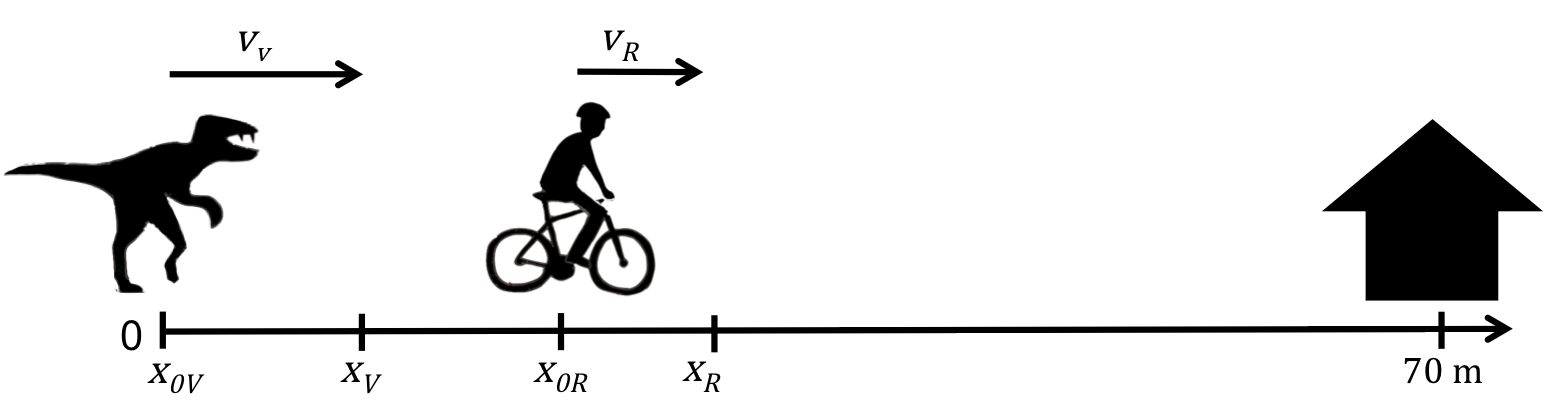
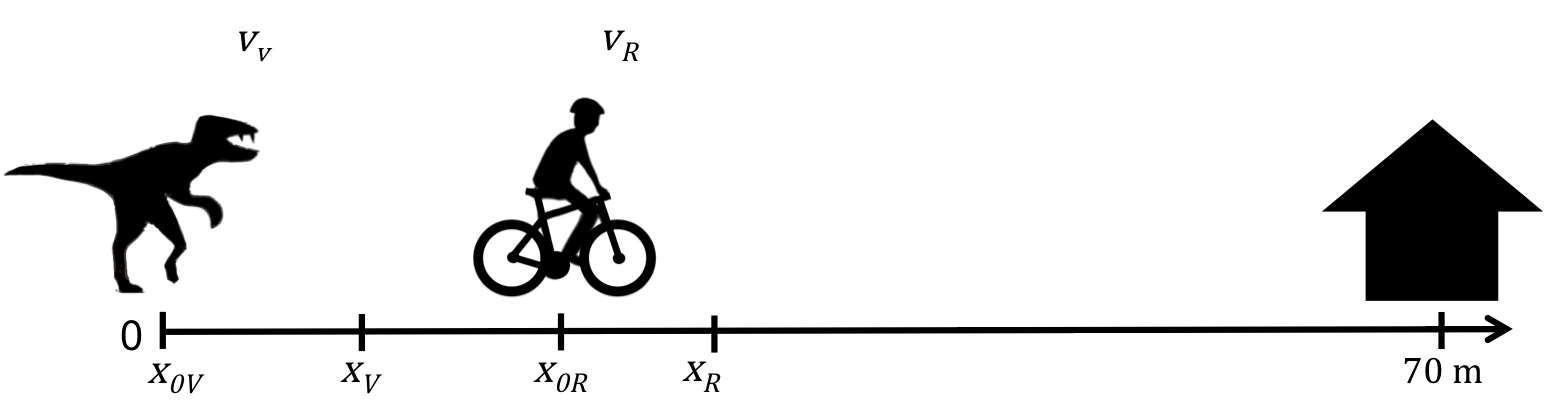
Added Solution to Motion in ND (rough draft)
Added a solution to one of the worked out problems and updated some diagrams. Still to do: update disgrams to have arrows above vectors and to make consistent with other diagrams, and add solution to other problem

diff --git a/tex/DescribingMotionInND.tex b/tex/DescribingMotionInND.tex
@@ -593,7 +593,68 @@ which is sometimes called the ``angular frequency'' instead of the angular veloc
 \item Where does he land?
 \end{problemParts}
 
-\begin{problemParts}{A cowboy swings a lasso above his head. The lasso moves in a circle in the horizontal plane and has a radius of $\SI{1.5}{m}$. A hawk flies toward the lasso at $\SI{50}{km/h}$ [N]. The bird sees the lasso moving at $\SI{60}{km/h}$ when it is directly in front of him. In the reference frame of the cowboy, what is...}
-\item The angular velocity of the lasso?
-\item The angular acceleration of the lasso? 
+\begin{problemParts}{A cowboy swings a lasso above his head. The lasso moves in a circle of radius $\SI{1.5}{m}$ in the horizontal plane. A hawk flies toward the lasso at $\SI{50}{km/h}$. The hawk sees the end of the lasso moving at $\SI{60}{km/h}$ when the lasso is directly in front of it (see Figure \ref{fig:CowboyQuestion}). In the reference frame of the cowboy ...}
+\item How long does it take for the lasso to complete one revolution?
+\item What is the centripetal acceleration of the end of the lasso? 
+\item What is the angular acceleration of the lasso?
+\capfig{0.5\textwidth}{figures/DescribingMotionInND/CowboyQuestionGiven.png}{\label{fig:CowboyQuestion} The problem as viewed from above. This diagram depicts the moment that the end of the lasso passes in front of the hawk.}
 \end{problemParts} 
+
+
+\textbf{Solution:}
+\begin{enumerate}[label=\alph*)]
+\item Our goal is the find the period of the lasso's motion. To do this, we can use the formula, 
+\begin{align*}
+T&=\frac{2\pi}{\omega}
+\end{align*}
+for which we need the angular velocity, $\omega$. We know the radius of the lasso, so if we find the linear velocity of the end point of the lasso, we can find the angular velocity by
+\begin{align*}
+\omega&=\frac{v}{R}
+\end{align*}
+We start by using what we know about relative motion to find the linear velocity of the lasso in the cowboy's reference frame. First, we need to set up our coordinate systems. We assign the $xy$ coordinate system to the hawk's reference frame and we assign the $x'y'$ system to the cowboy's reference frame. The solution will be simplest if we align the coordinate systems so that positive $y$ and positive $y'$ are in the same direction, as in Figure \ref{fig:CowboySolution}. When we are talking about the velocity of the hawk, we will denote it with the superscript ``H", and when we are talking about the lasso, we will use ``L".\\
+
+We want the velocity of the \textbf{lasso} in the \textbf{cowboy's reference frame}, so we want $v'^L$. To find this, we start with the velocity of the lasso in the hawk's reference frame,$v^L$ and then take into account that the hawk is moving relative to the cowboy. We do this by adding the velocity of the hawk in the cowboy's reference frame, $v'^H$ to $v^L$. So, our equation is,
+\begin{align*}
+v^L+v'^H&=v'^L
+\end{align*}
+We are adding velocities, which have both a magnitude and a direction. However, we were not given any directions in the problem, so we describe the directions with respect to our coordinate system. The way we have set up our axes, the velocity of the hawk in the cowboy's reference frame is simply $\SI{50}{km/h}$ in the positive $y'$ direction.\\
+
+Now here's the key to solving this problem: We don't know the speed of the lasso in the cowboy's reference frame, but we do know something about its direction. Since the motion of the lasso is circular, it's velocity must be tangent to the circle. This means that when the lasso is directly in front of the hawk, its velocity must be in either the $+x'$ or $-x'$ direction. In this case, we can just choose one, so we will choose the $+x'$ direction.
+\capfig{0.5\textwidth}{figures/DescribingMotionInND/CowboySolution.png}{\label{fig:CowboySolution}The two coordinate systems are aligned so that positive $y'$ and positive $y$ are in the same direction. The velocity vectors of the hawk and the lasso in the reference frame of the cowboy are shown.}
+The velocity vectors $v'^H$ and $v'^L$ are shown in Figure \ref{fig:CowboySolution}. Remember that when we add two vectors they must be lined up so that the ``head" of one touches the ``tail" of the other, so there can only be one direction for $v^L$, as shown in Figure \ref{fig:CowboyVector}. 
+\capfig{0.25\textwidth}{figures/DescribingMotionInND/CowboyVectorAddition.png}{\label{fig:CowboyVector} Vector addition to determine the velocity of the lasso in the cowboy's reference frame.}
+This is a right angle triangle, so we use the Pythagorean theorem so solve for $v'^L$:
+\begin{align*}
+v'^{L^2}+v'^{H^2}&=v^{L^2}\\
+&=\sqrt{v^{L^2}-v'^{H^2}}\\
+&=\sqrt{(\SI{60}{km/h})^2-(\SI{50}{km/h})^2}\\
+v'^L&=\SI{33}{km/h}
+\end{align*}
+The linear velocity of the end of the lasso at this moment is $\SI{33}{km/h}$ in the positive $x$ direction.  To find the angular velocity, first convert the linear velocity from km/h to m/s:
+\begin{align*}
+\frac{\SI{33}{km}}{h}\times \frac{\SI{1000}{m}}{\SI{1}{km}} \times \frac{\SI{1}{h}}{\SI{3600}{s}} &= \SI{9.2}{m/s}
+\end{align*}     
+Now we can substitute $\omega=\frac{v}{R}$ into $T=\frac{2\pi}{\omega}$ and solve for $T$:
+\begin{align*}
+T&={2\pi}\frac{R}{v}\\
+&={2\pi}\frac{\SI{1.5}{m}}{\SI{9.2}{m/s}}\\
+&={2\pi}\frac{\SI{1.5}{m}}{\SI{9.2}{m/s}}\\
+T&=\SI{1.0}{s}
+\end{align*}
+$\therefore$ it takes $\SI{1.0}{s}$ for the lasso to complete one revolution.
+\item The motion is circular, so it has a centripetal acceleration given by
+\begin{align*}
+a_c(t)&=\frac{v^2(t)}{R}
+\end{align*}
+To find the centripetal acceleration of the end of the lasso, we just substitute in our values for $v$ and $R$.
+\begin{align*}
+a_c(t)&=\frac{\SI{9.2}{m/s}^2}{\SI{1.5}{m}}\\
+a_c(t)&=\SI{56}{m/s^2}
+\end{align*}
+$\therefore$ the centripetal acceleration of the end of the lasso is $\SI{56}{m/s^2}$ towards the centre of the circle. 
+\item You may be tempted to divide the centripetal acceleration by $R$ to find the angular acceleration $\alpha$. However, the angular acceleration is the rate of change of the angular velocity. For circular motion, the angular velocity is constant, so \textbf{the angular acceleration is zero}. (Remember that in the equation $a_s=R\alpha$, $a_s$ refers to the component of acceleration that is parallel to the velocity. For circular motion, $a_s$ is zero.)
+\end{enumerate}
+
+
+
+
